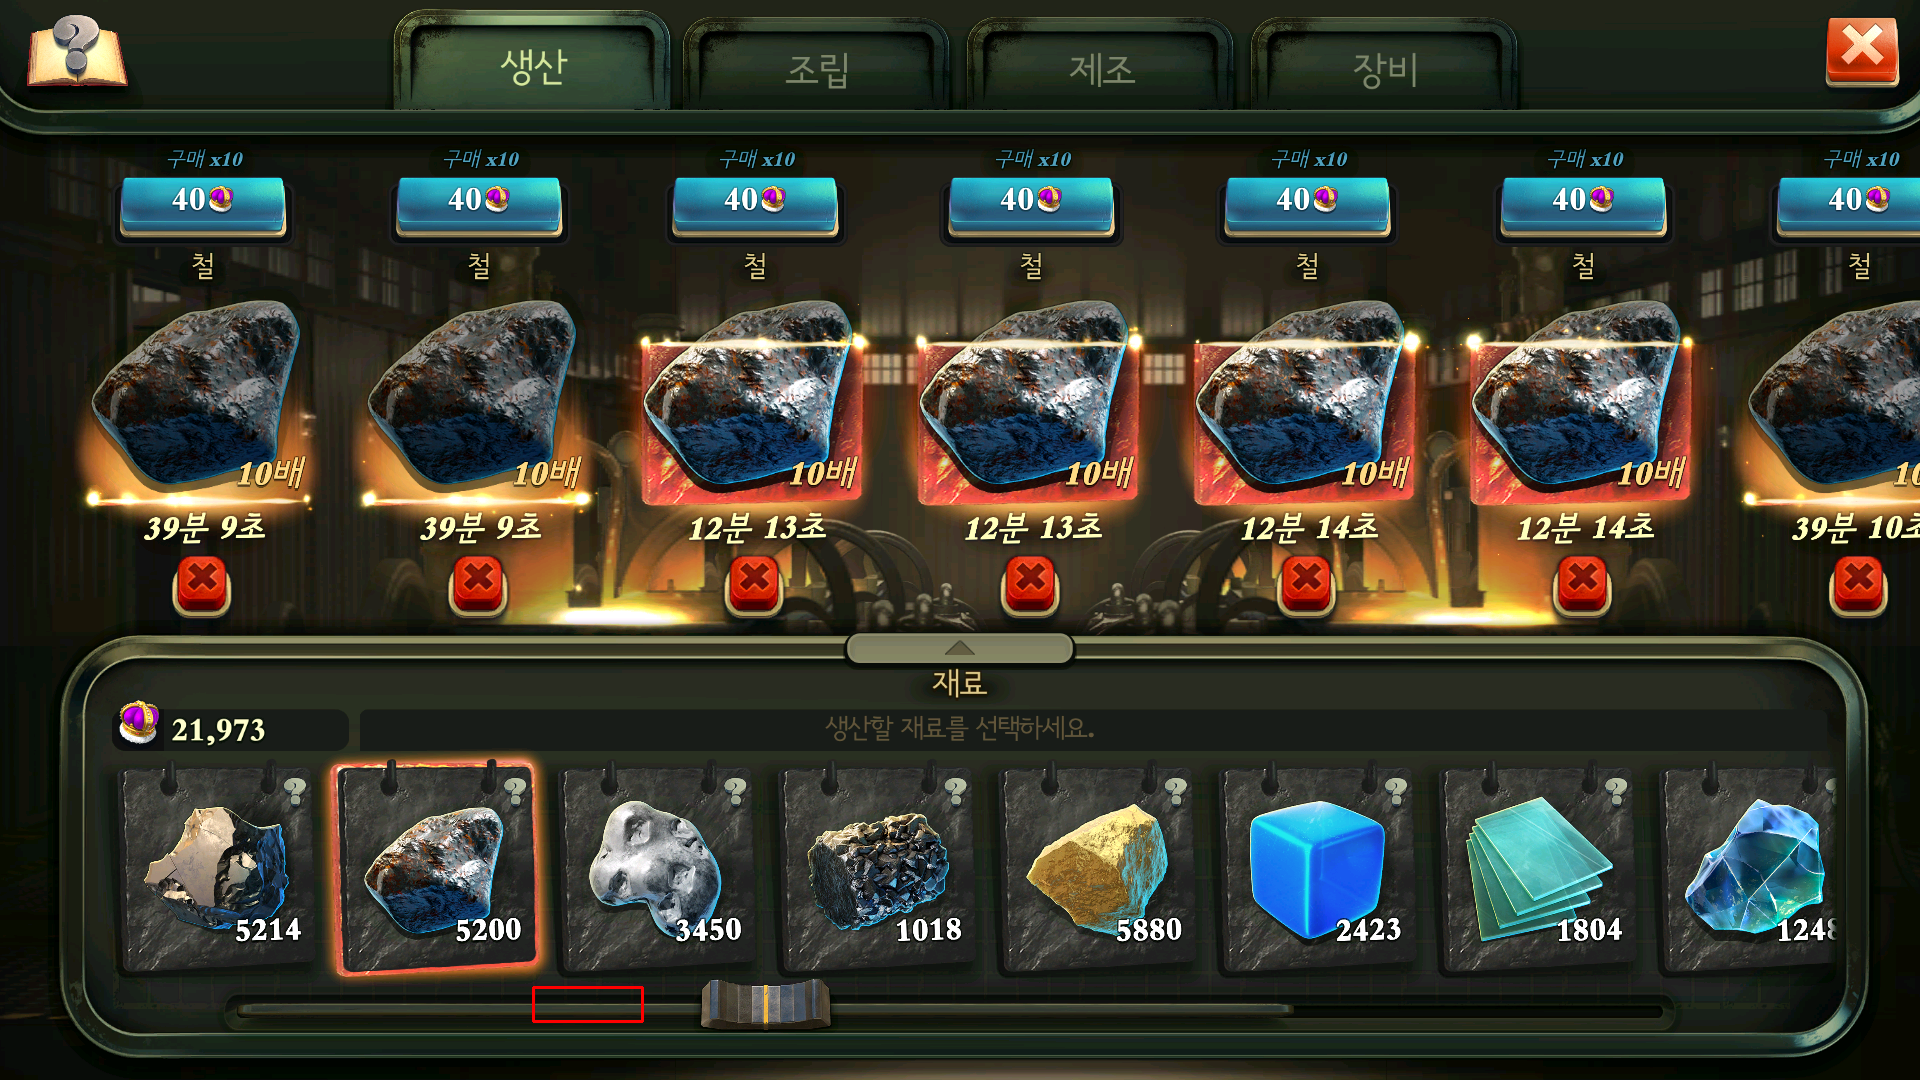
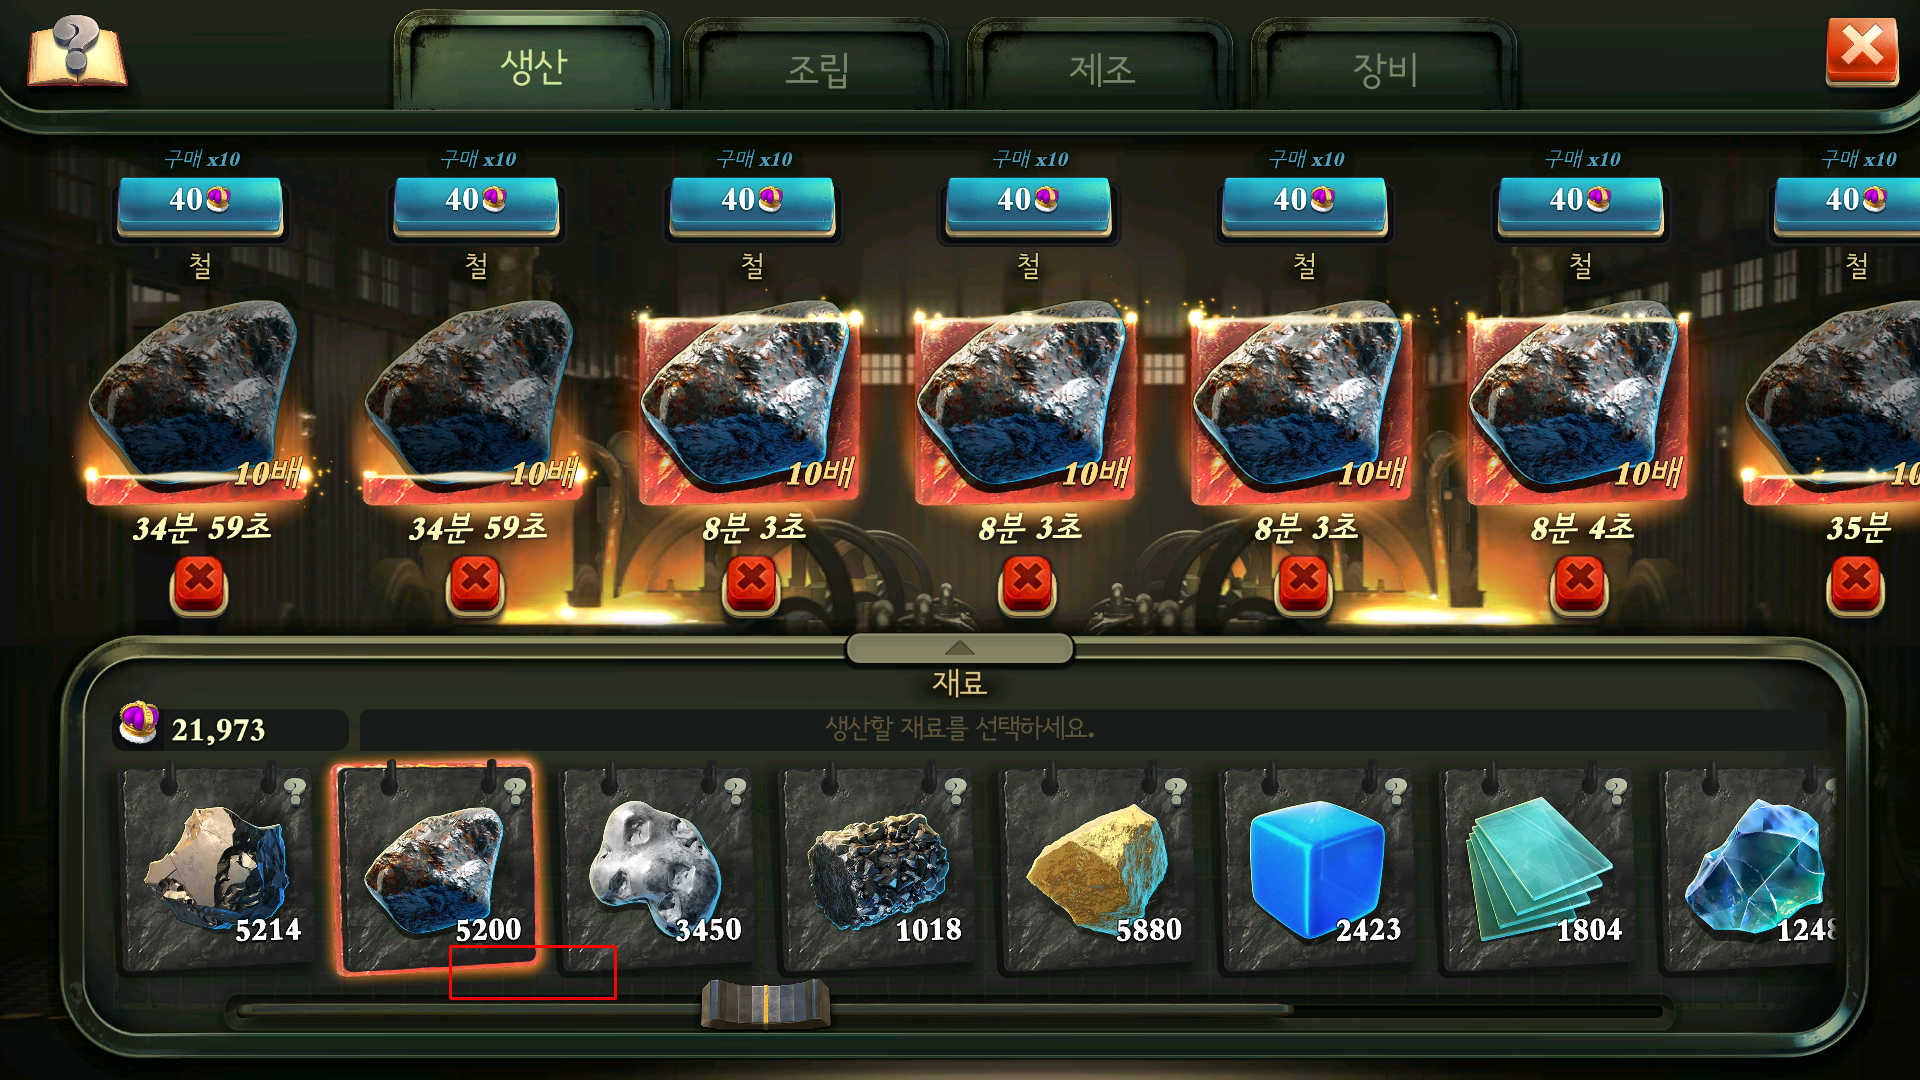
Auto update: 06:49:39

diff --git a/tracker/macro.py b/tracker/macro.py
@@ -241,16 +241,20 @@ def _read_single_count(center_x, center_y):
     if screen_color is None: return 0
     screen_gray = cv2.cvtColor(screen_color, cv2.COLOR_BGR2GRAY)
     
-    # 🔥 [사용자 측정 데이터 기반 정밀 보정]
-    # 목표: 좌측상단(417, 912) ~ 우측하단(527, 946)
+    # 🔥 [최종 보정] 사용자 측정 좌표 기반 역산 결과
+    # 목표: X(417) / Y(912) 부터 시작
+    # W(110) / H(34) 크기
     
-    # 1. 위치 이동 (중심점 기준 오프셋 역산 결과)
-    offset_x = int(-66 * SCALE_RATIO)  # 기존 -20에서 -> -66 (오른쪽으로 더 이동)
-    offset_y = int(-86 * SCALE_RATIO)  # 기존 -40에서 -> -86 (아래쪽으로 대폭 이동)
+    # 1. 위치 이동 (오른쪽, 아래로 이동하려면 음수 값을 넣어야 함)
+    # 기존 58 -> -11로 변경 (오른쪽으로 69px 이동)
+    # 기존 10 -> -59로 변경 (아래쪽으로 69px 이동)
     
-    # 2. 박스 크기 (측정된 픽셀 크기를 배율로 나눔)
-    w = int(73 * SCALE_RATIO)          # 실제 너비 약 110px
-    h = int(23 * SCALE_RATIO)          # 실제 높이 약 35px
+    offset_x = int(-11 * SCALE_RATIO)   
+    offset_y = int(-59 * SCALE_RATIO)   
+    
+    # 2. 박스 크기 (측정해주신 크기 110 x 34 적용)
+    w = int(110 * SCALE_RATIO)          
+    h = int(35 * SCALE_RATIO)           
 
     x = int(center_x - offset_x)
     y = int(center_y - offset_y)
@@ -264,18 +268,16 @@ def _read_single_count(center_x, center_y):
     roi = screen_gray[y:y+h, x:x+w]
     
     debug_view = screen_color.copy()
-    cv2.rectangle(debug_view, (x, y), (x+w, y+h), (0, 0, 255), 2)  # 박스 두께 2로 얇게
+    cv2.rectangle(debug_view, (x, y), (x+w, y+h), (0, 0, 255), 2) # 두께 2
     cv2.imwrite("ocr_debug.png", debug_view) 
 
-    # 인식률 높이기 (이미지 3배 확대 및 이진화)
+    # 인식률 높이기 (3배 확대)
     roi = cv2.resize(roi, None, fx=3.0, fy=3.0, interpolation=cv2.INTER_CUBIC)
-    _, roi_thresh = cv2.threshold(roi, 150, 255, cv2.THRESH_BINARY) 
-    
+    _, roi_thresh = cv2.threshold(roi, 160, 255, cv2.THRESH_BINARY) 
     text = pytesseract.image_to_string(roi_thresh, config='--psm 7 outputbase digits')
     numbers = re.findall(r'\d+', text)
     if numbers: return int(numbers[0])
     return 0
-
 def calculate_eta(name, current, target):
     if name not in MATERIAL_INFO: return "정보없음"
     needed = target - current
